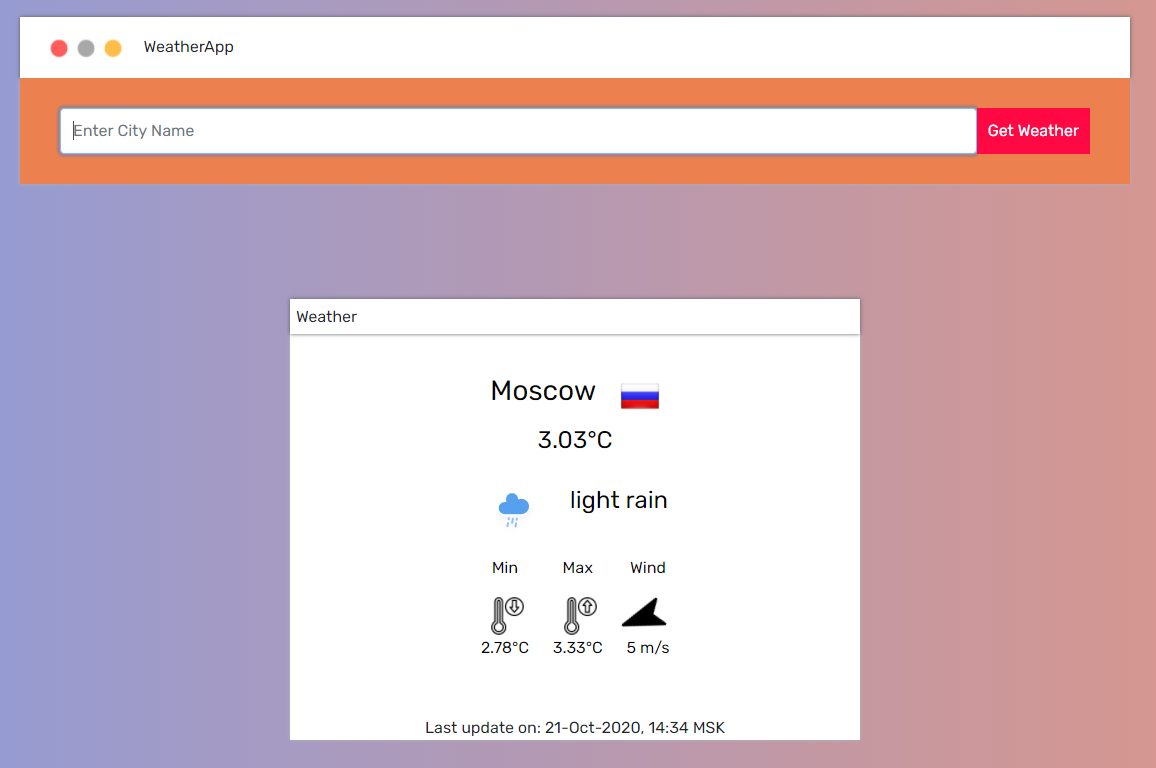
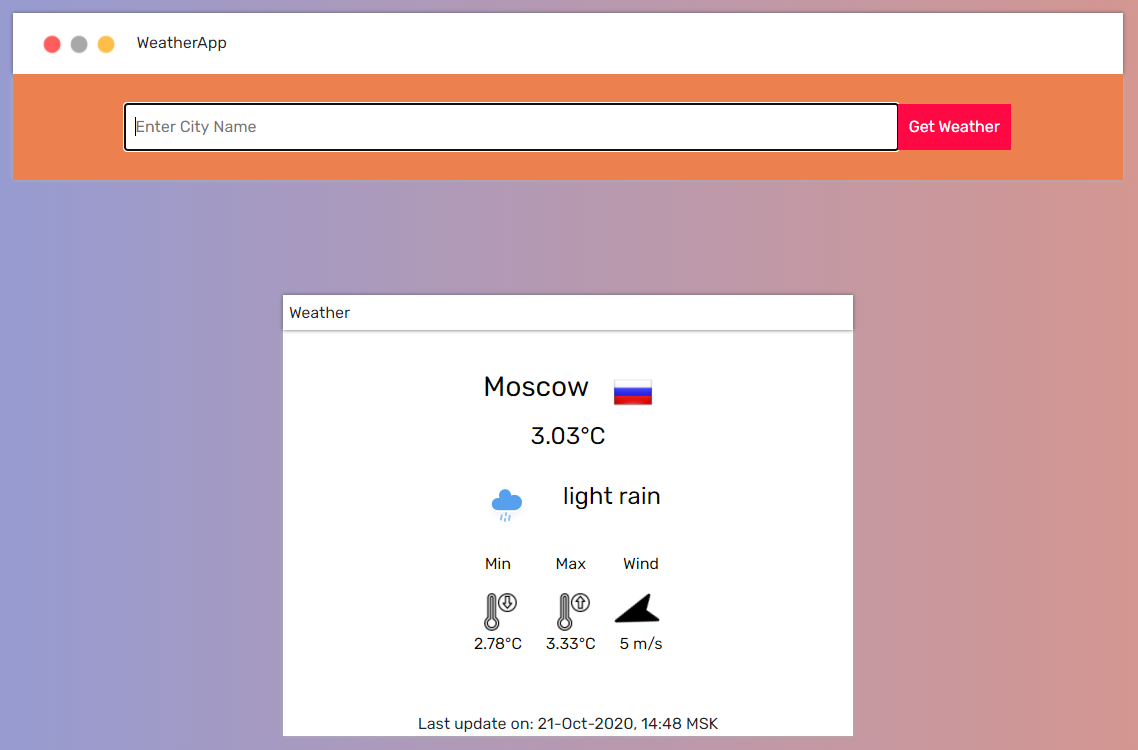
Update css

diff --git a/index.html b/index.html
@@ -26,8 +26,8 @@
 				<div class="row">
 					<div class="col-md-12">
                         <div class="header" id="parse1">
-                        <input type="text" name="city" id="city" placeholder="Enter City Name" class="form-control">
-                            <button name="getWeather" id="getWeather" onclick="parseJson()" class="btn">Get Weather</button>
+                        <input type="text" name="city" id="city" placeholder="Enter City Name">
+                            <span name="getWeather" id="getWeather" onclick="parseJson()" class="btn">Get Weather</span>
                         </div>
                         <div class="main" id="main">
                         </div>

diff --git a/css/style.css b/css/style.css
@@ -12,6 +12,15 @@
   display: inline-block;
   margin: 10px;
 }
+input {
+  margin: 0;
+  border: none;
+  border-radius: 0;
+  width: 75%;
+  padding: 10px;
+  float: left;
+  font-size: 16px;
+}
 .getweather{
   width: auto;
   max-width:800px ;
